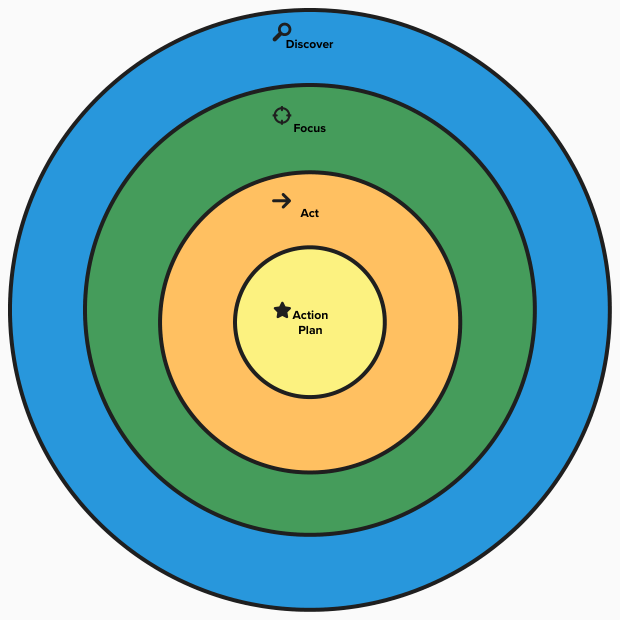
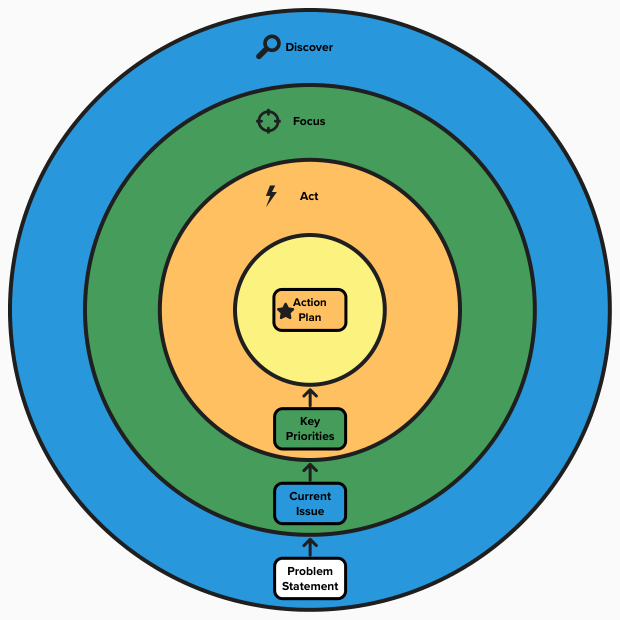
Improved Visual Representation section and Model

Changed region(s): [[0.2452, 0.2452, 0.7661, 0.9806], [0.3984, 0.0306, 0.5516, 0.0919], [0.3984, 0.1532, 0.521, 0.2145]]

diff --git a/README.md b/README.md
@@ -154,14 +154,24 @@ Use this template to guide your session:
 
 ---
 
-### **Visual Representation**
-The DFA Framework is depicted as a **target diagram** with concentric circles:
-- Outer Circle: **Discover** (Blue, Magnifying Glass Icon).  
-- Middle Circle: **Focus** (Green, Target Icon).  
-- Inner Circle: **Act** (Orange, Arrow Icon).  
-- Centre Circle: **Action Plan** (Yellow, Star Icon).  
+### **Visual Representation**  
+The DFA Framework is illustrated as a **target diagram** with concentric circles, showing the flow of steps, inputs, and outputs:
+
+- **Outer Circle (Blue):** **Discover** step (Magnifying Glass Icon).  
+  - Input: *Problem Statement* (White) → Output: *Current Situation* (Blue).
+
+- **Middle Circle (Green):** **Focus** step (Target Icon).  
+  - Input: *Current Situation* (Blue) → Output: *Key Priorities* (Green).
+
+- **Inner Circle (Orange):** **Act** step (Lightning Bolt Icon).  
+  - Input: *Key Priorities* (Green) → Output: *Action Plan* (Orange).
+
+- **Centre Circle (Yellow):** Final **Action Plan (Orange)** (Star Icon).  
 
 ![DFA Framework Model](./resources/DFA-framework.png)
+
+**Facilitator Tip:**  
+Leverage the target diagram as a **visual facilitation tool** alongside or in place of the **DFA Framework Template**. As participants progress through each step, capture their inputs and outputs directly on the diagram using sticky notes or markers. For virtual sessions, use digital tools like Miro or MURAL to enable real-time collaboration. This method keeps the group engaged, enhances clarity, and creates a visual record of the session's progress.
 
 ---
 
